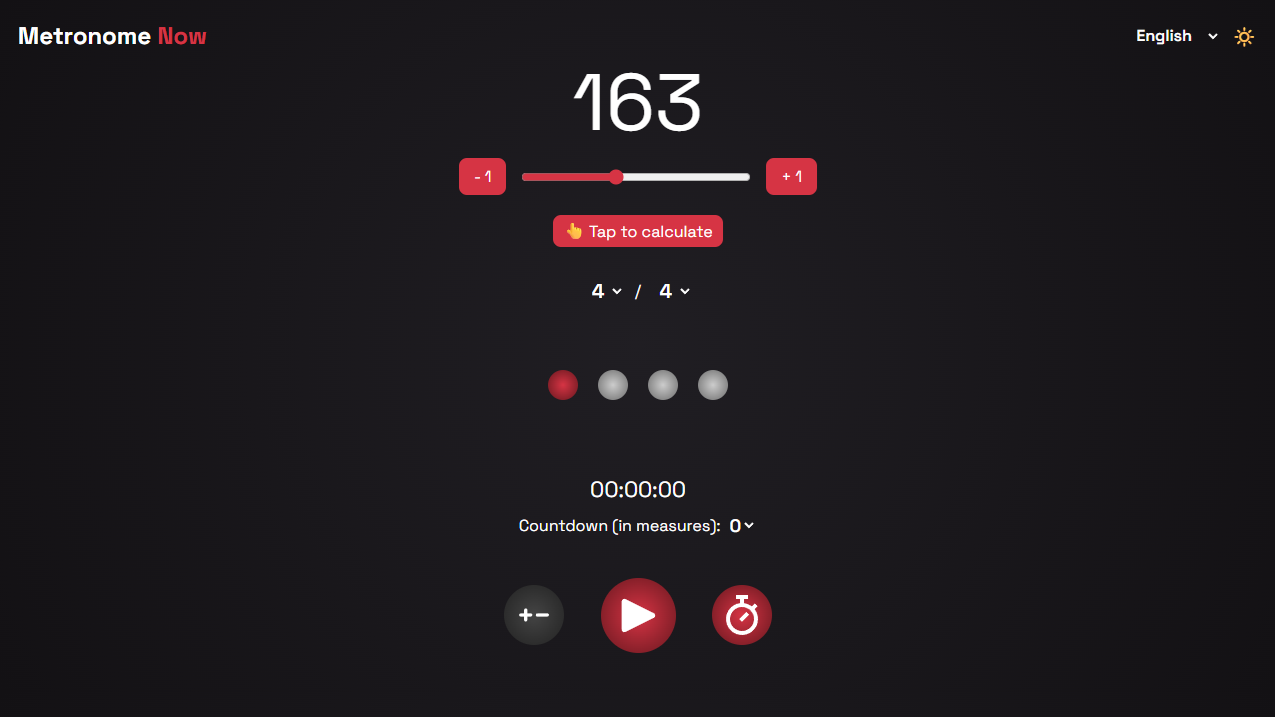
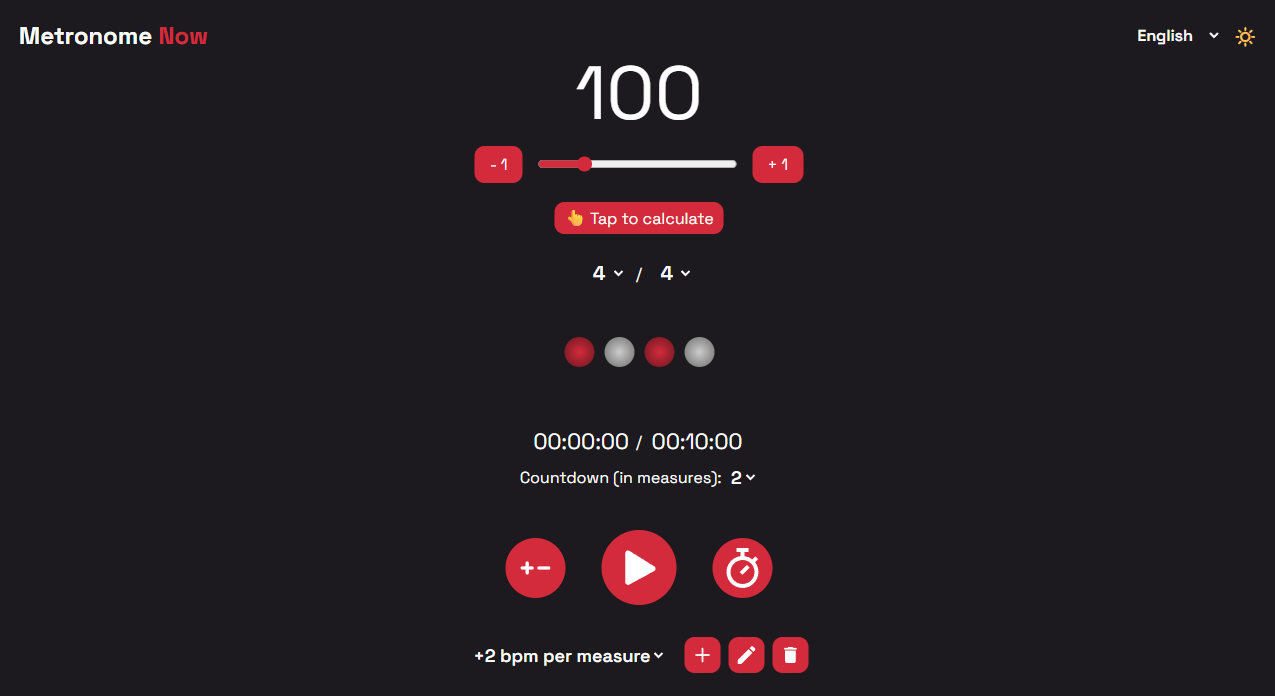
update screenshots

diff --git a/vite.config.ts b/vite.config.ts
@@ -23,17 +23,11 @@ export default defineConfig({
         start_url: "/",
         icons: [
           {
-            src: "/images/icons/desktop-512x512.png",
+            src: "/images/icons/android-chrome-512x512.png",
             sizes: "512x512",
             type: "image/png",
-            purpose: "any"
+            purpose: "maskable"
           },
-          // {
-          //   src: "/images/icons/android-chrome-512x512.png",
-          //   sizes: "512x512",
-          //   type: "image/png",
-          //   purpose: "maskable"
-          // },
           {
             src: "/images/icons/android-chrome-192x192.png",
             sizes: "192x192",
@@ -50,13 +44,13 @@ export default defineConfig({
         screenshots: [
           {
             src: "/images/screenshots/mobile_screencap.png",
-            sizes: "374x694",
+            sizes: "387x732",
             type: "image/png",
             label: "Metronome now"
           },
           {
             src: "/images/screenshots/desktop_screencap.png",
-            sizes: "1275x717",
+            sizes: "1275x696",
             type: "image/png",
             form_factor: "wide",
             label: "Metronome now"
